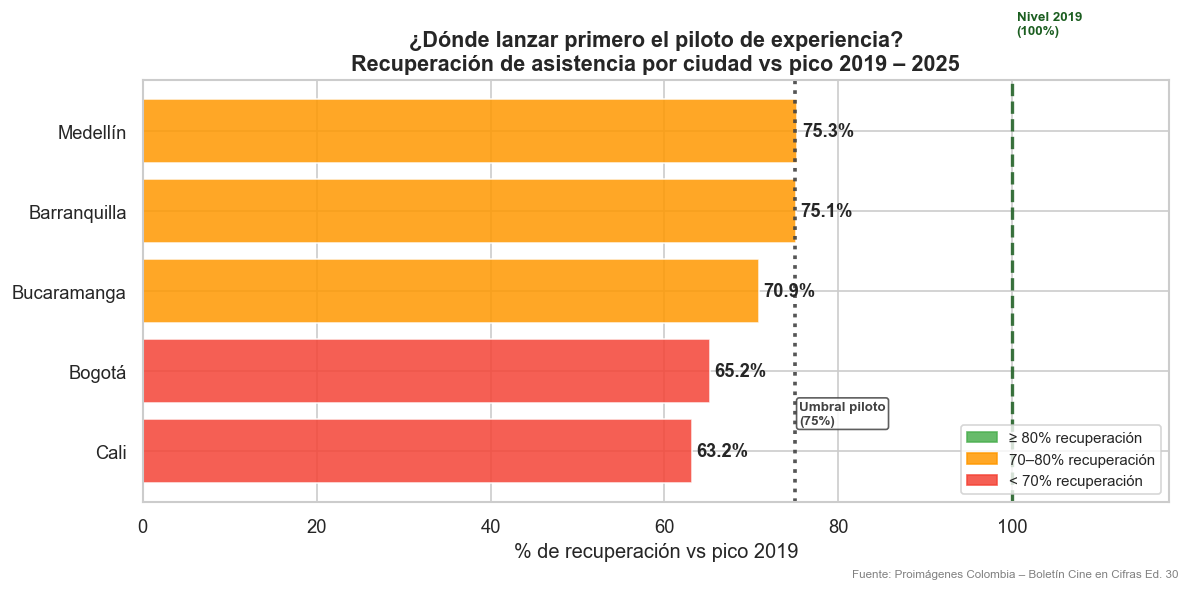
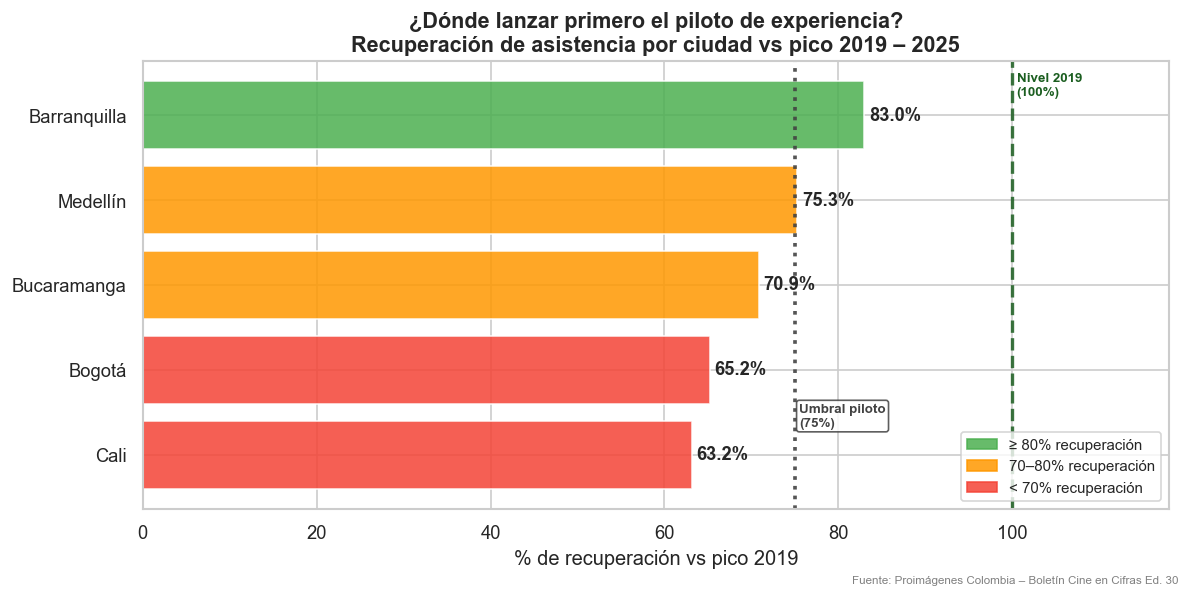
Update EDA script: filter out 'Nacional' city data and enhance recovery percentage calculation for 2025

diff --git a/scripts/02_EDA_cine_los_andes.py b/scripts/02_EDA_cine_los_andes.py
@@ -19,6 +19,7 @@ def run_eda():
         return
 
     df = pd.read_csv(csv_path)
+    df = df[df['ciudad'] != 'Nacional']  # excluir fila agregada
 
     print("Shape:", df.shape)
     print("Columnas:", df.columns.tolist())
@@ -176,7 +177,13 @@ def run_eda():
     # GRÁFICO 4 — Recuperación por Ciudad (2025)
     # FIX: línea de umbral más visible (color + grosor + etiqueta directa)
     # ===========================================================
-    ciudades_2025 = df[df['año'] == 2025].sort_values('recuperacion_ciudad_pct').reset_index(drop=True)
+    base_2019 = df[df['año'] == 2019].set_index('ciudad')['espectadores_ciudad_M']
+    ciudades_2025 = df[df['año'] == 2025].copy()
+    ciudades_2025['recuperacion_ciudad_pct'] = ciudades_2025.apply(
+        lambda r: round(r['espectadores_ciudad_M'] / base_2019[r['ciudad']] * 100, 1), axis=1
+    )
+    ciudades_2025 = ciudades_2025.sort_values('recuperacion_ciudad_pct').reset_index(drop=True)
+
     if not ciudades_2025.empty:
         colores_barras = [
             '#F44336' if v < 70 else '#FF9800' if v < 80 else '#4CAF50'
